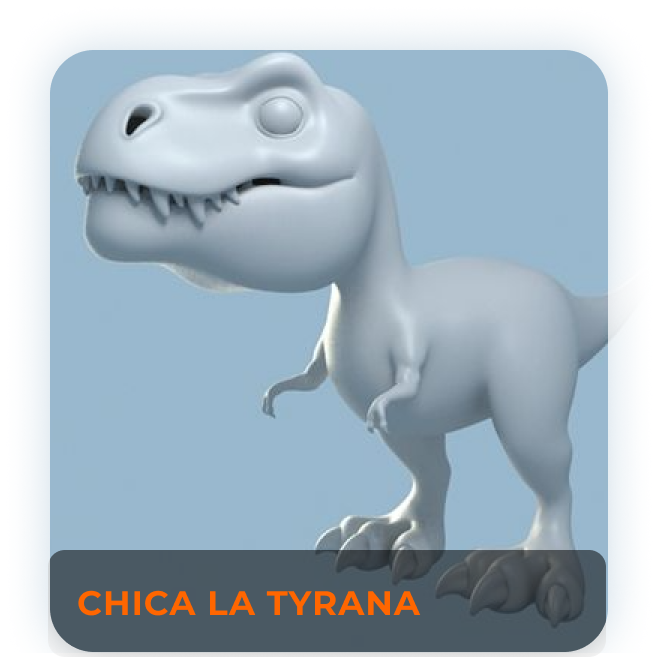
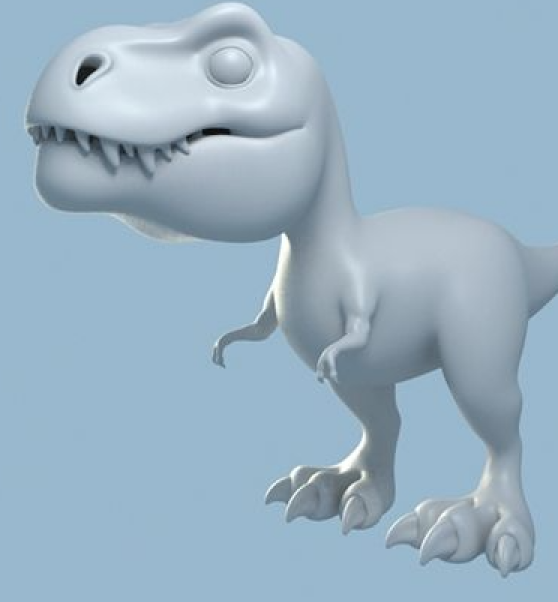
fixed section with cards

diff --git a/_sass/dive.scss b/_sass/dive.scss
@@ -313,13 +313,196 @@
             }
         }
 
-        .cards_grid {
-            display: grid;
-            grid-template: 1fr 1fr 1fr/1fr 1fr;
 
-            .card_item {
+        .cards__grid{
+
+            margin-top: 60px;
+
+            .flip-card {
+                display: grid;
+                grid-template: 1fr 1fr 1fr/1fr 1fr;
+                row-gap: 68px;
+                column-gap: 27px;
+           
+
+            .flip-card-inner {
+            position: relative;
+            width: 558px;
+            height: 602px;
+            transition: transform 0.6s;
+            transform-style: preserve-3d;
+
+            }
+
+            .flip-card-inner:hover {
+            transform: rotateY(180deg);
+            }
+
+            .flip-card-front, .flip-card-back {
+            position: absolute;
+            width: 100%;
+            height: 100%;
+            -webkit-backface-visibility: hidden;
+            backface-visibility: hidden;
+            }
+
+            .flip-card-front {
+                .name{
+                    width: 558px;
+                    height: 108px;
+                    text-align: center;
+                    position: absolute;
+                    font-family: 'Montserrat';
+                    font-style: normal;
+                    font-weight: 700;
+                    font-size: 34px;
+                    line-height: 41px;
+                    letter-spacing: 1.0625px;
+                    color: #FF6600;
+                    padding:  33px 36px;
+                    background-color: rgba(0, 0, 0, 0.52);
+                    border-radius: 44px;
+                    border-top-right-radius: 17px 17px;
+                    border-top-left-radius: 17px 17px;
+                    transform: translate(0px, -109px);
+                    &.n-2,&.n-3{
+                        color: white;
+                    }
+                }
+
+
+                img{
+                    border-radius: 44px; 
+                }
+                .i-1{
+                    box-shadow: 0px 0px 49px rgba(252, 197, 14, 0.5);
+                }
+                .i-2{
+                    box-shadow: 0px 0px 50px rgba(47, 238, 223, 0.5);
+
+                }
+                .i-4, .i-3{
+                    box-shadow: 0px 0px 50px rgba(154, 223, 145, 0.5);
+                }
+                .i-5{
+                    box-shadow: 0px 0px 50px rgba(255, 102, 0, 0.5);
+                }
+
+            }
+
+            .flip-card-back {
+            background-color: black;
+            border-radius: 44px;
+            color: white;
+            padding: 58px 63px 42px 62px;
+            transform: rotateY(180deg);
+            box-shadow: 6px 8px 20px rgba(0, 0, 0, 0.5);
+
+                h2{
+                    font-family: 'Dela Gothic One';
+                    font-style: normal;
+                    font-weight: 400;
+                    font-size: 75px;
+                    line-height: 83px;
+                    letter-spacing: 2.59375px;
+                    margin-bottom: 58px;
+
+                    &.t-3{
+                        margin-bottom: 141px;
+                    }
+
+                    &.t-1::after {
+                        content: "";
+                        position: absolute;
+                        width: 36px;
+                        height: 36px;
+                        border-radius: 50%;
+                        background-color: white;
+                        transform: translate(120px, -65px);
+
+                    }
+
+                     &.t-2::after{
+                        content: "";
+                        position: absolute;
+                        width: 36px;
+                        height: 36px;
+                        border-radius: 50%;
+                        background-color: white;
+                        transform: translate(175px, -65px);
+                    
+                    }
+
+                    &.t-3::after{
+                        content: "";
+                        position: absolute;
+                        width: 36px;
+                        height: 36px;
+                        border-radius: 50%;
+                        background-color: white;
+                        transform: translate(120px, 25px);
+
+                    }
+
+                    &.t-4::after{
+                        content: "";
+                        position: absolute;
+                        width: 36px;
+                        height: 36px;
+                        border-radius: 50%;
+                        background-color: white;
+                        transform: translate(120px, -60px);
+
+                    }
+                    &.t-5::after{
+                        content: "";
+                        position: absolute;
+                        width: 36px;
+                        height: 36px;
+                        border-radius: 50%;
+                        background-color: white;
+                        transform: translate(-20px, -80px);
+
+                    }
+
+                    &.t-4 span{
+                        font-size: 60px;
+                    }
+
+                    &.t-5 span{
+                        font-size: 47px;
+                    }
+
+                    
+                }
+
+                .cards__content{
+                    p {
+                        padding-bottom: 15px;
+                        font-family: 'Montserrat';
+                        font-style: normal;
+                        font-weight: 500;
+                        font-size: 20px;
+                        line-height: 24px;
+                        letter-spacing: 0.625px;
+                        
+                    }
+                    span{
+                        padding-bottom: 15px;
+                    font-family: 'Montserrat';
+                    font-style: normal;
+                    font-weight: 500;
+                    font-size: 20px;
+                    line-height: 24px;
+                    letter-spacing: 0.625px;
+                        font-weight: 300;
+                    }
+                }
+
             }
         }
+    }
+
         
 
         .roadmap__container {

diff --git a/dive.html b/dive.html
@@ -56,14 +56,28 @@ title: EVERLASTING MEMORIES BUILT WITH PEACE AND WONDER
       <img src="/assets/images/special_text.png" alt="special text">
     </div>
 
-    <div class="cards_grid">
+    <div class="cards__grid">
+      <div class="flip-card">
         {%- for c in d.cards -%}
-          <div class="card_item">
-            <img src="{{c.image}}" alt="{{c.name}}">
-            <caption>{{c.name}}</caption>
+          <div class="flip-card-inner">
+            <div class="flip-card-front p-{{forloop.index}}">
+              <img class="i-{{forloop.index}}"  src="{{c.image}}" alt="{{c.name}}" style="width: 558px; height: 602px;">
+              <div class="name n-{{forloop.index}}">{{c.name}}</div>
+            </div>
+            <div class="flip-card-back">
+              <h2 class="t-{{forloop.index}}">{{c.title}}</h2> 
+              {%- if c.text -%}
+                <div class="cards__content">
+                  {{c.text | markdownify }}
+                </div>
+              {%- endif -%}
+            </div>
           </div>
         {%- endfor -%}
+
+      </div>
     </div>
+
     
     <div class="roadmap__container">
       <div class="roadmap__grid">

diff --git a/_sass/custom.scss b/_sass/custom.scss
@@ -50,6 +50,13 @@
     font-style: normal;
   }
 
+  @font-face {
+    font-family: "Montserrat";
+    src: url(/assets/fonts/Montserrat-Light.ttf) format("truetype");
+    font-weight: 300;
+    font-style: normal;
+  }
+
 
 body{
     max-width: 100%;
